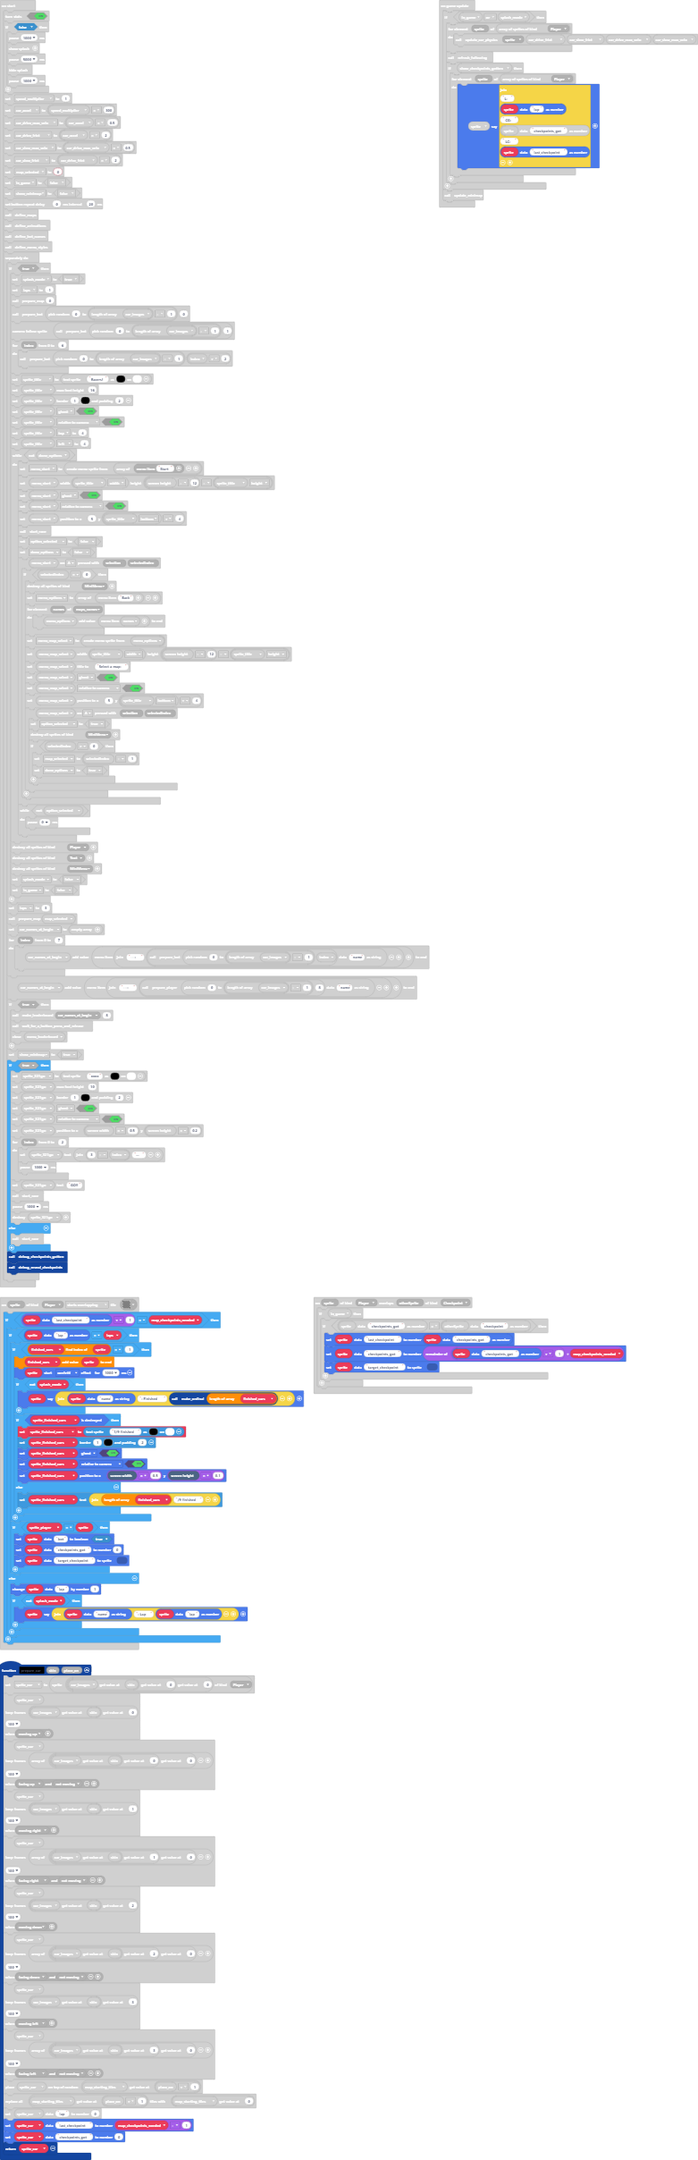
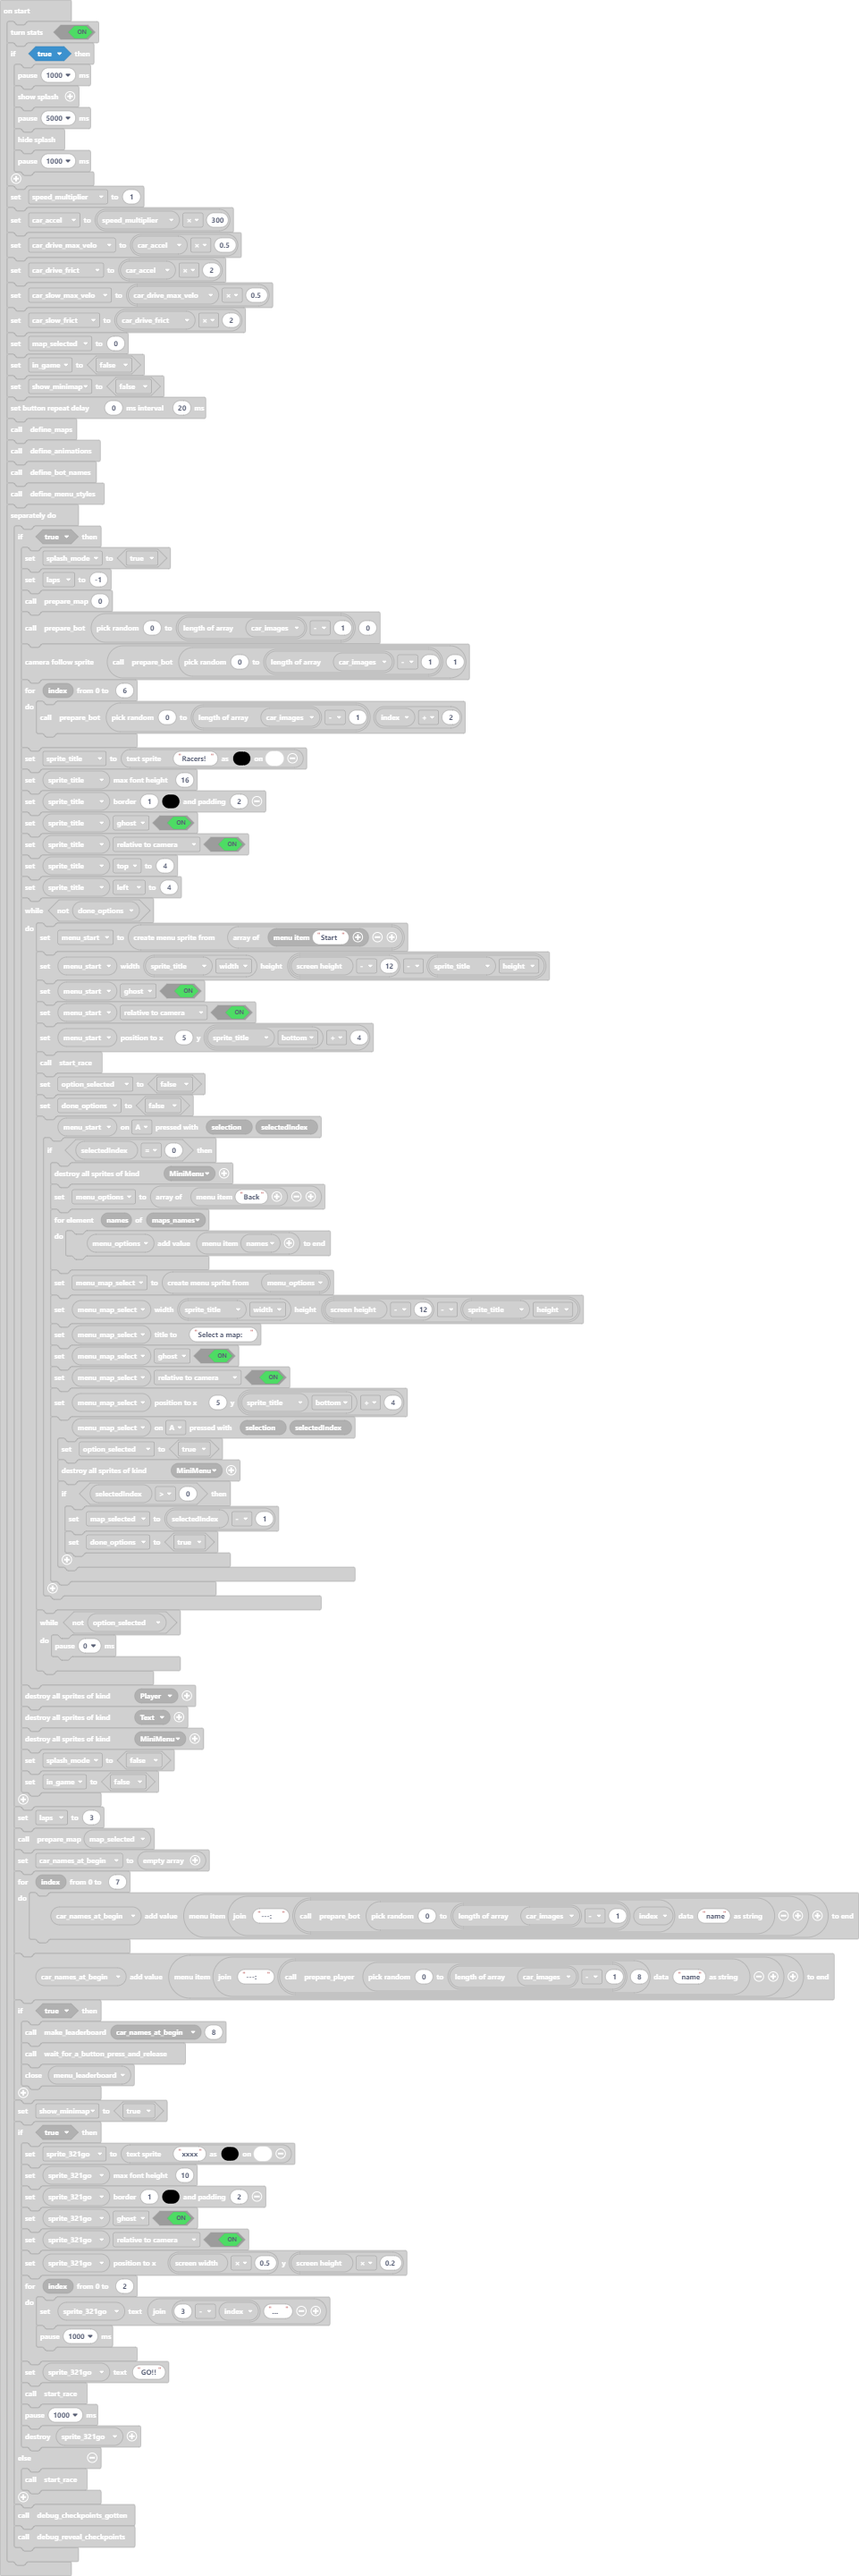
Oops forgot to enable splash

Changed region(s): [[0.0, 0.0, 1.0, 1.0], [0.6146, 0.0, 1.0, 0.0931]]

diff --git a/main.ts b/main.ts
@@ -604,7 +604,7 @@ let show_minimap = false
 let in_game = false
 let car_accel = 0
 stats.turnStats(true)
-if (false) {
+if (true) {
     pause(1000)
     LoadingAnimations.show_splash()
     pause(5000)
